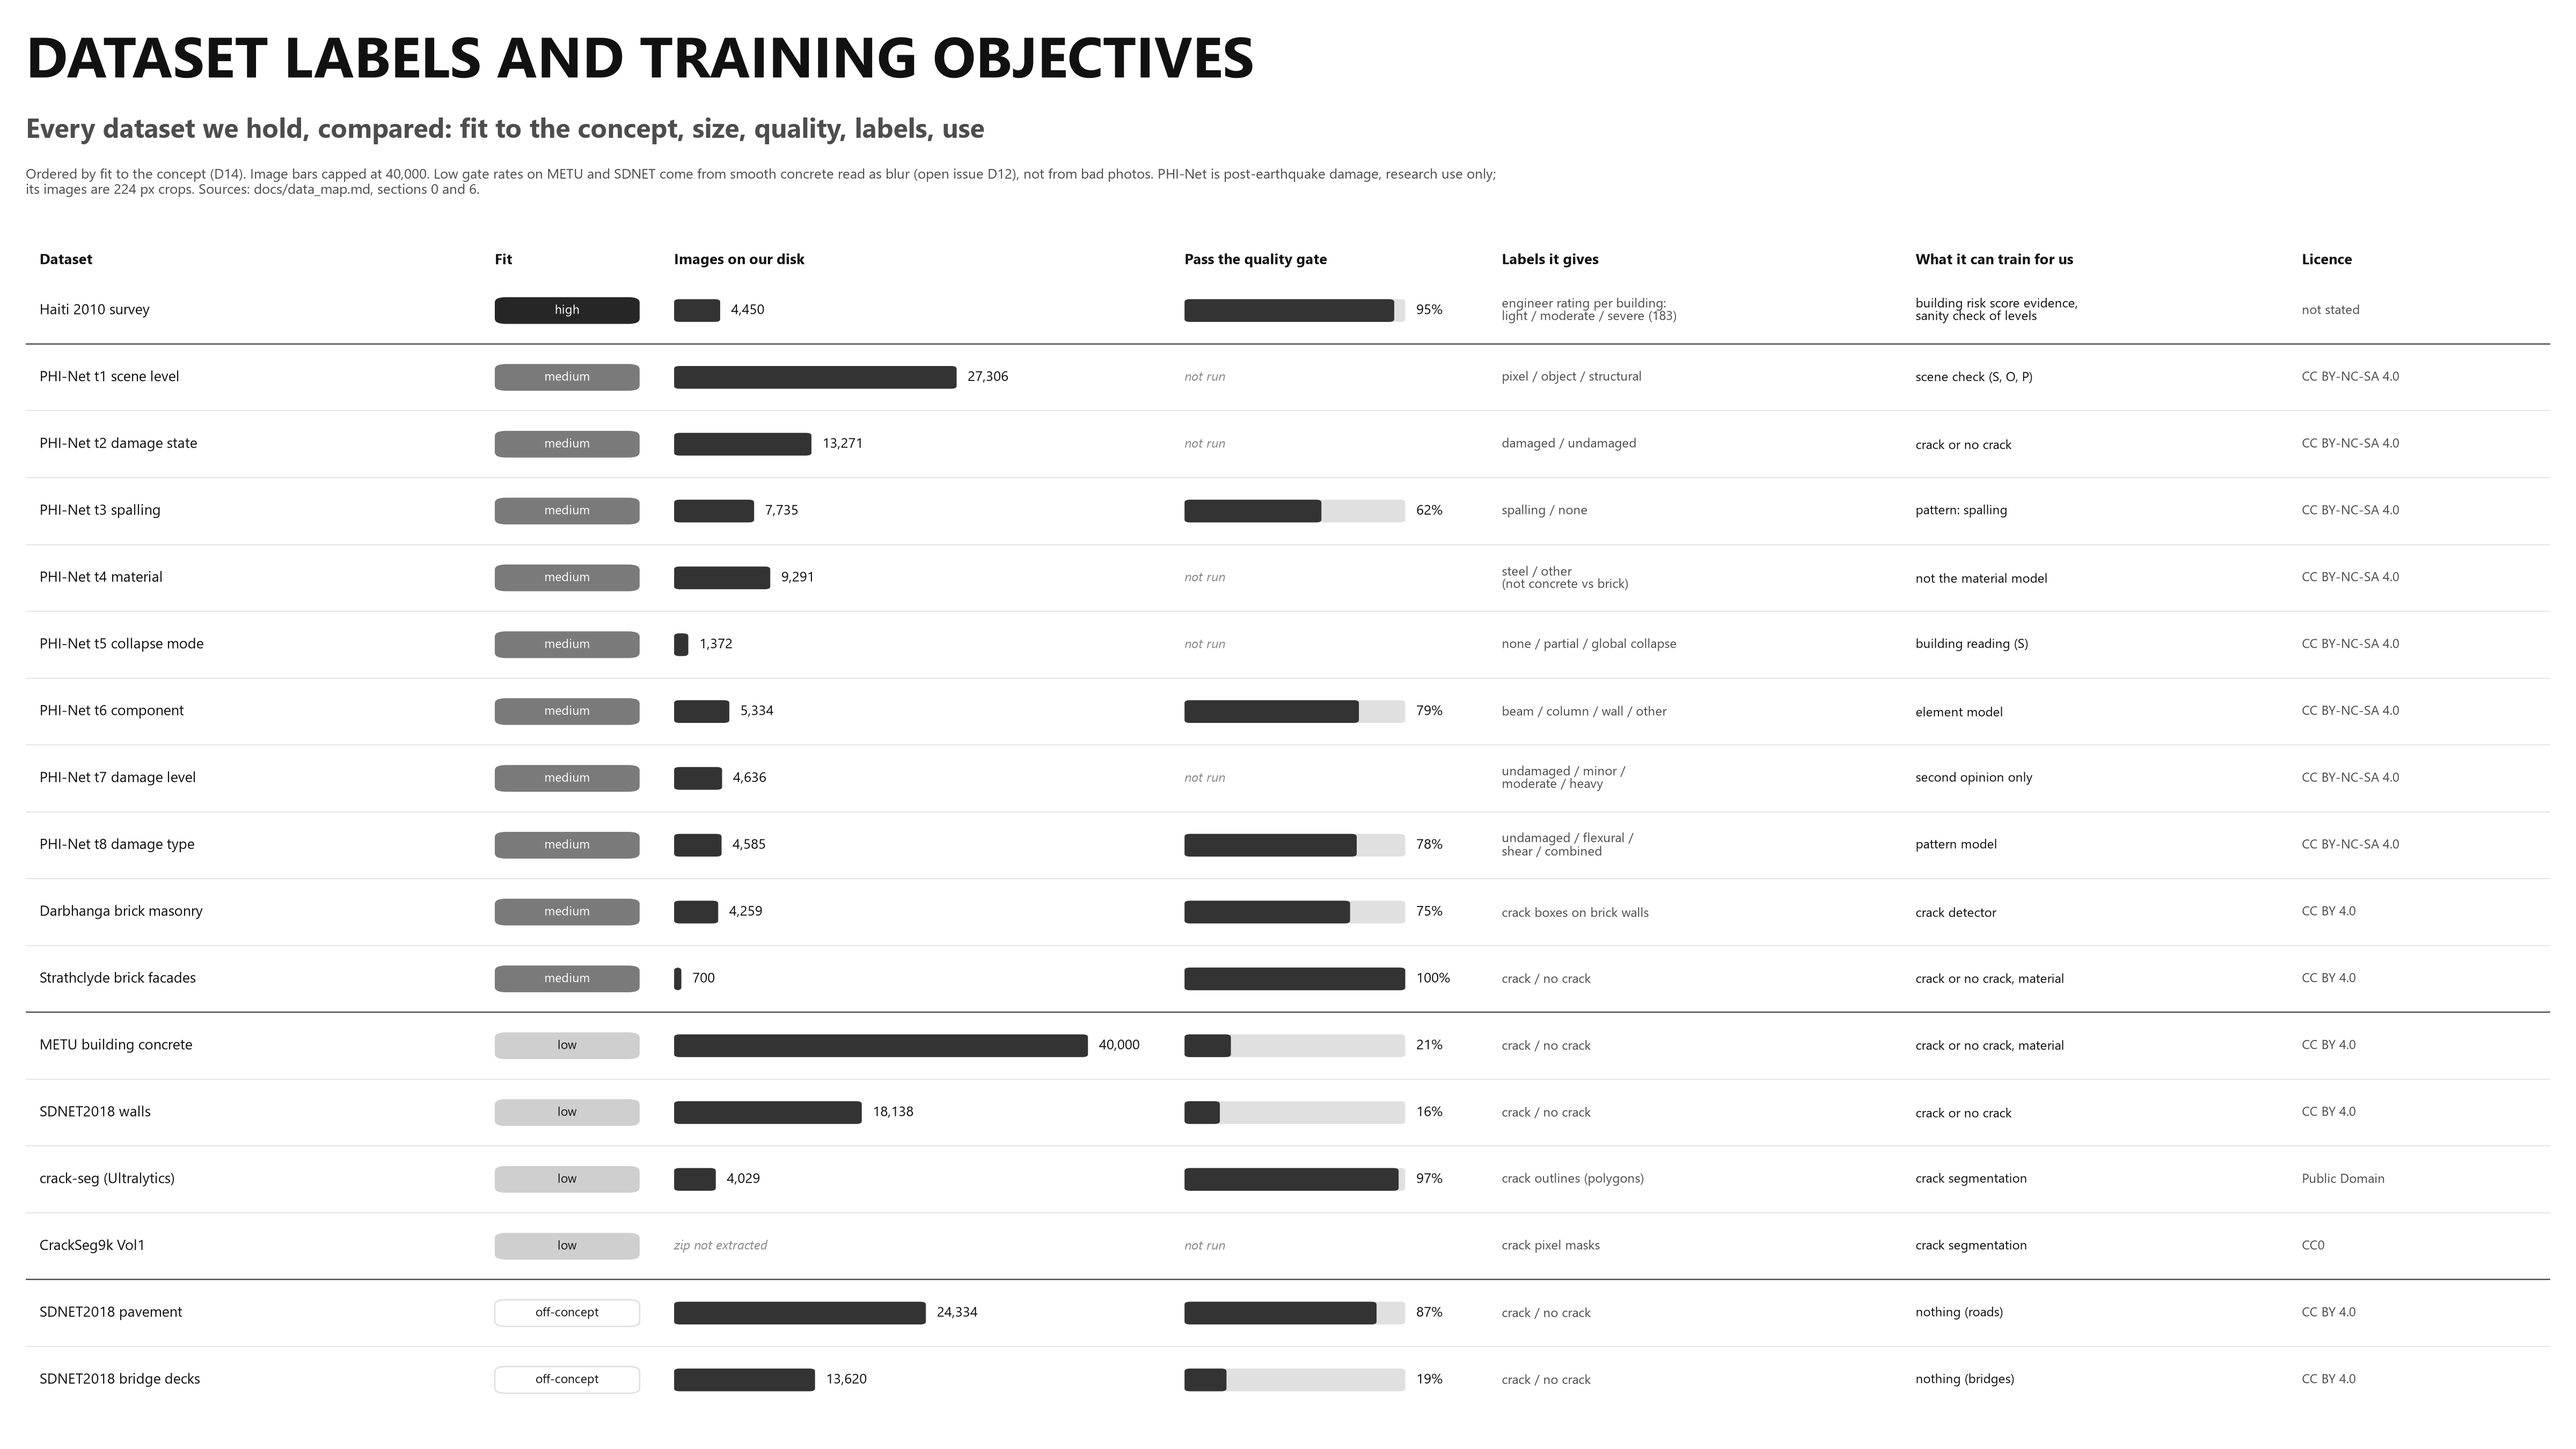
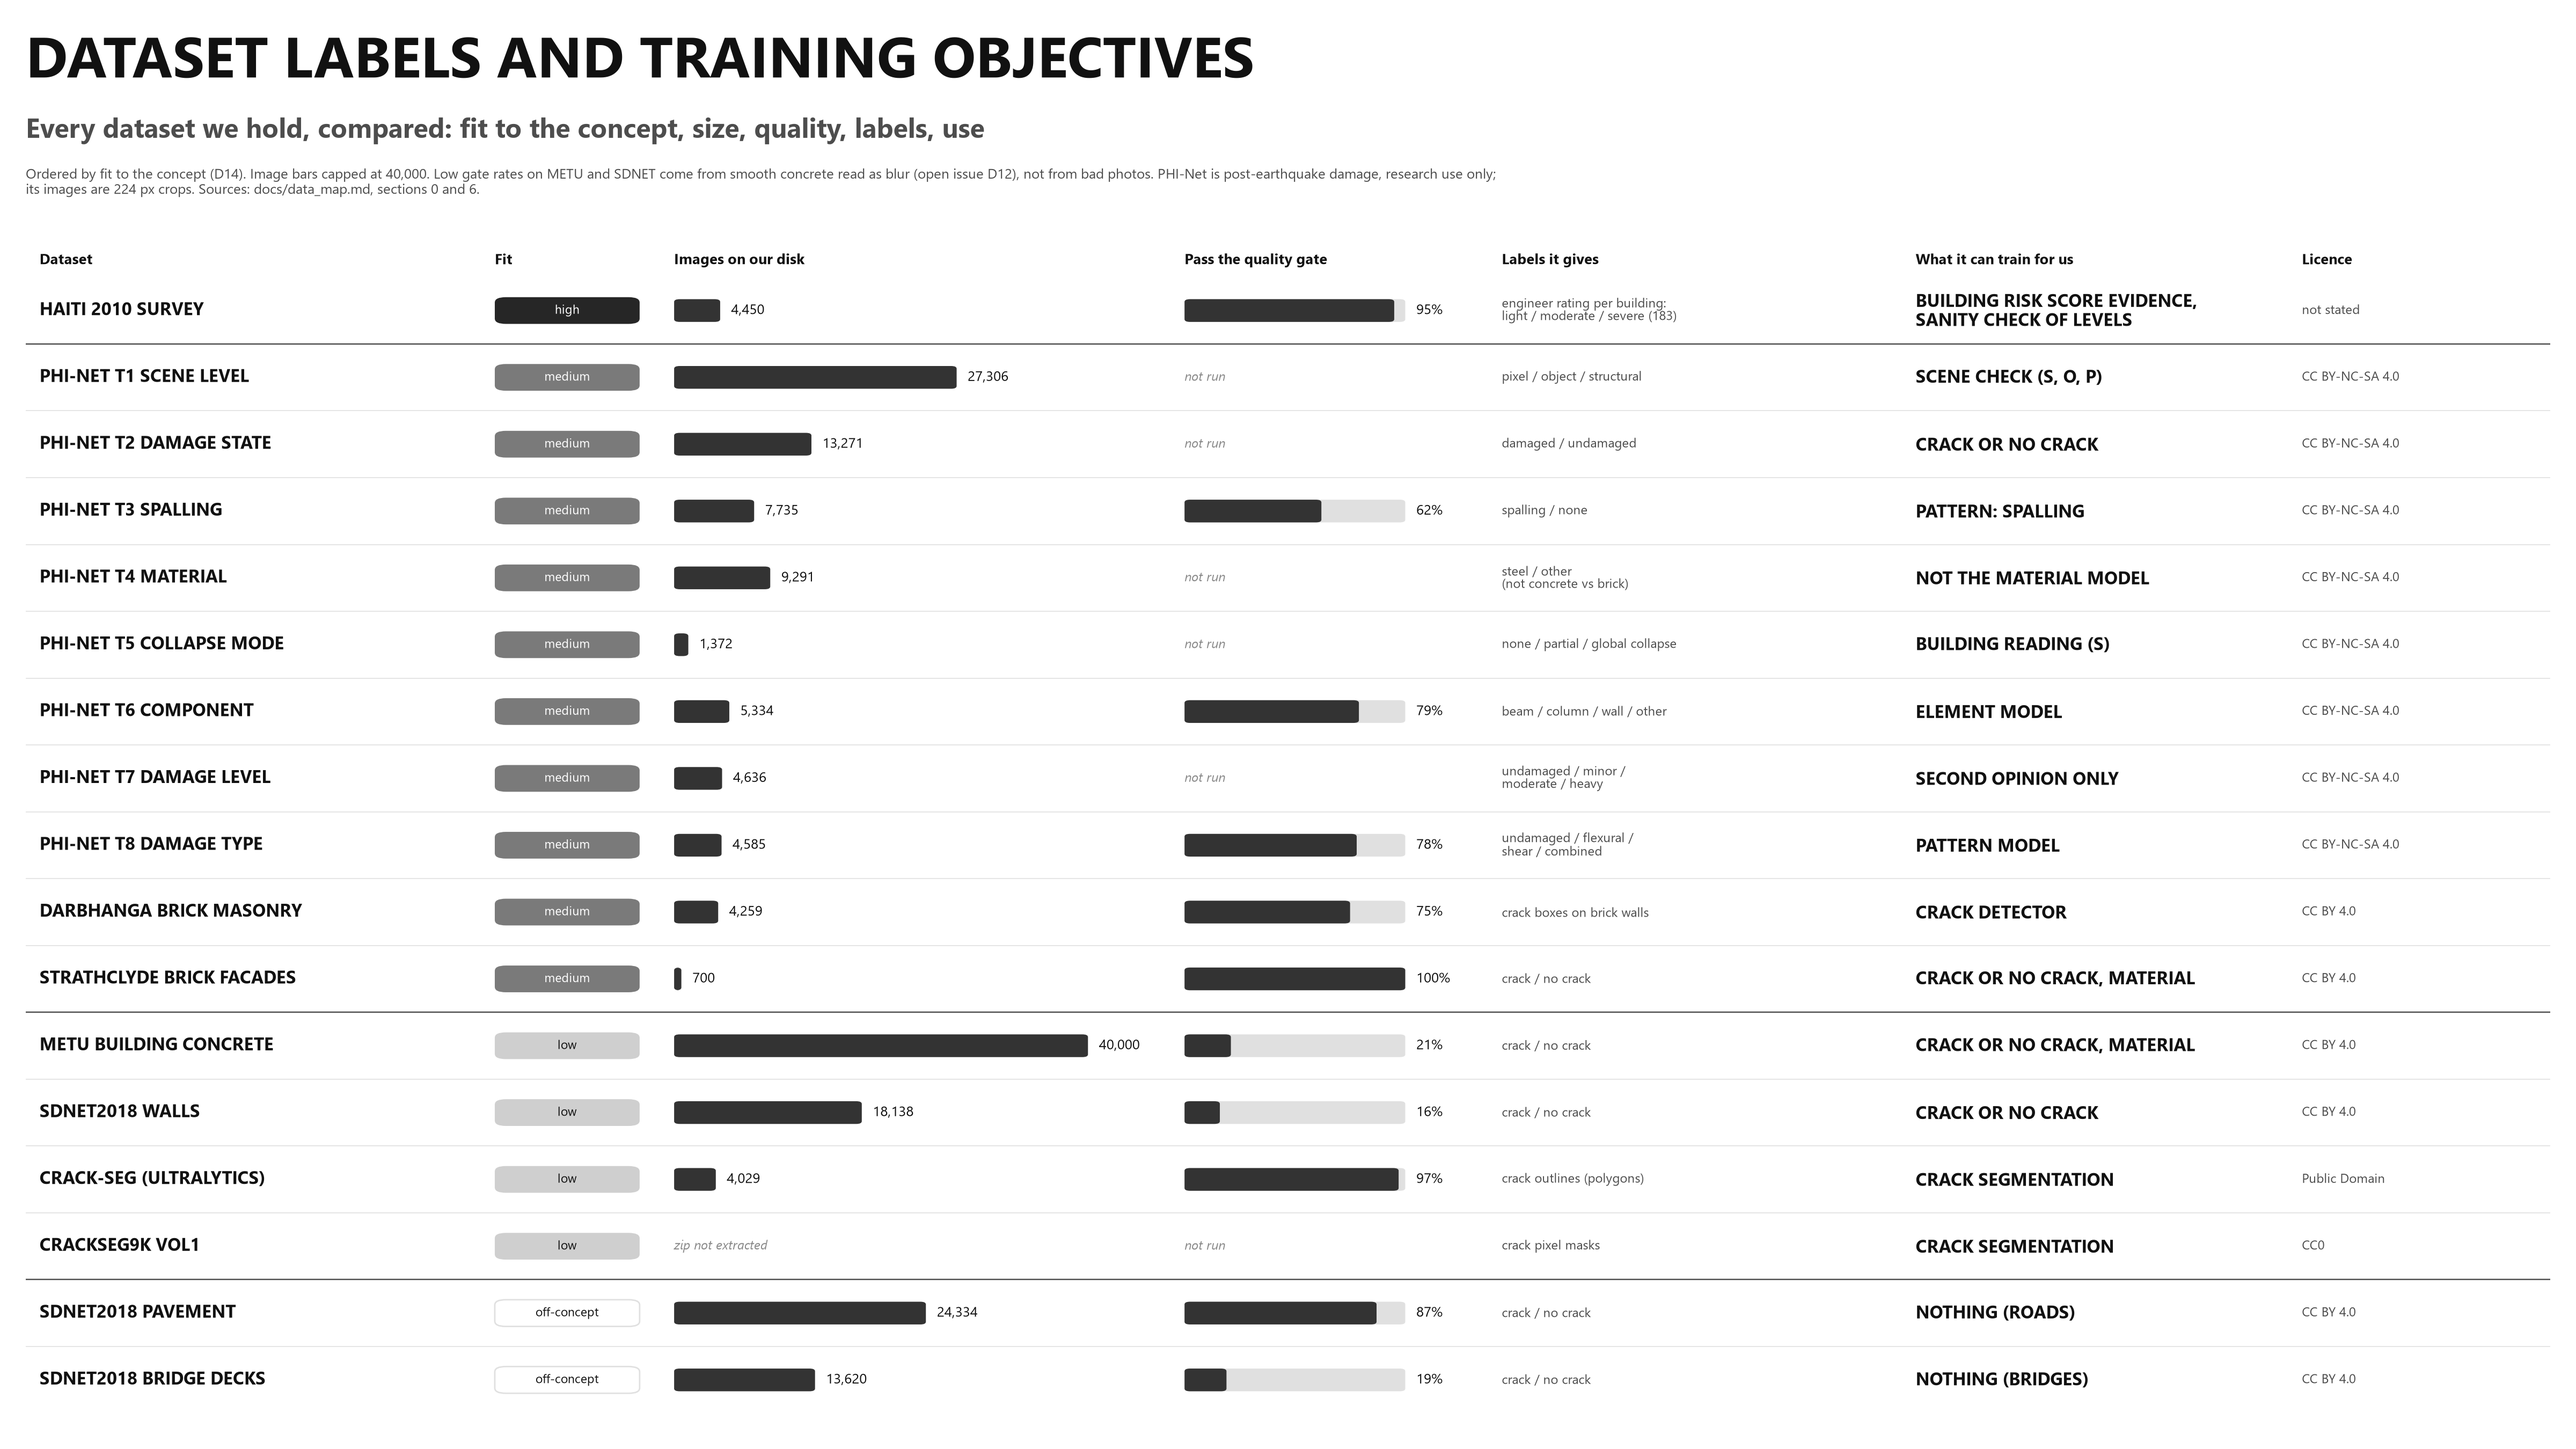
Figure 10: dataset names and training uses in bold capitals

diff --git a/src/viz/figures.py b/src/viz/figures.py
@@ -1108,7 +1108,7 @@ def dataset_comparison():
             ax.axhline(r - 0.5, color=INK_2, lw=0.9)
         elif r:
             ax.axhline(r - 0.5, color=GRID, lw=0.6)
-        ax.text(0, r, name, va="center", fontsize=10, color=INK)
+        ax.text(0, r, name.upper(), va="center", fontsize=12, weight="bold", color=INK)
         ax.add_patch(FancyBboxPatch((x_fit, r - 0.2), 1.05, 0.4, boxstyle="round,pad=0,rounding_size=0.08",
                                     facecolor=FIT_FILL[fit], edgecolor=GRID if fit == "off-concept" else "none"))
         ax.text(x_fit + 0.525, r, fit, ha="center", va="center", fontsize=8.5,
@@ -1131,7 +1131,7 @@ def dataset_comparison():
                                         boxstyle="round,pad=0,rounding_size=0.04", facecolor=BLUE, edgecolor="none"))
             ax.text(x_gate + w_gate + 0.08, r, f"{gate}%", va="center", fontsize=9.5, color=INK)
         ax.text(x_lab, r, labels, va="center", fontsize=8.8, color=INK_2, linespacing=1.05)
-        ax.text(x_use, r, use, va="center", fontsize=8.8, color=INK, linespacing=1.05)
+        ax.text(x_use, r, use.upper(), va="center", fontsize=12, weight="bold", color=INK, linespacing=1.1)
         ax.text(x_lic, r, licence, va="center", fontsize=8.8, color=INK_2)
     ax.set_xlim(-0.1, x_end)
     ax.set_ylim(n - 0.4, -1.2)
